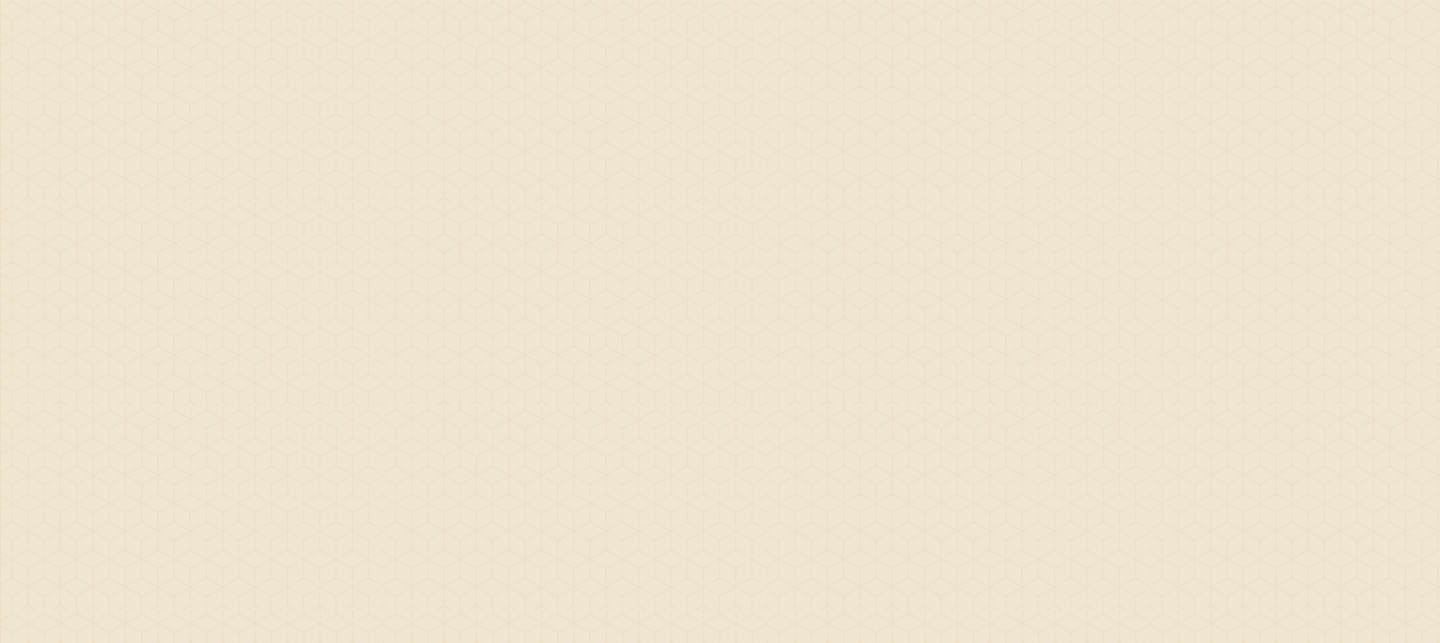
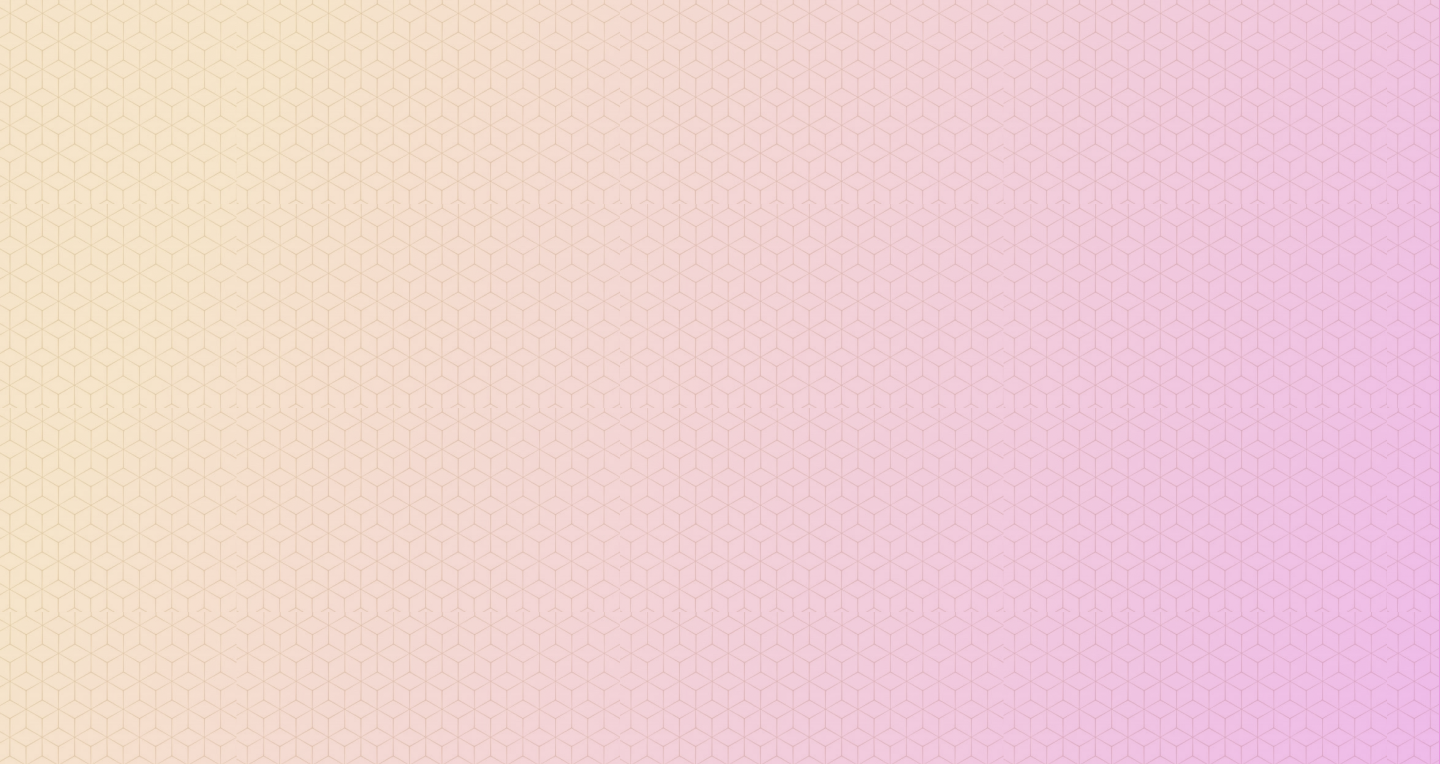
further style updates

diff --git a/src/components/profile/ProfileCard.js b/src/components/profile/ProfileCard.js
@@ -9,6 +9,7 @@ import EditProfile from "./EditProfile";
 import LoadingBC from "../infoboxes/LoadingBC";
 import { PrivateBid } from "../lease/BuyerForms";
 import { ProfileCollection } from "./ProfileCollection";
+import './profile.css'
 
 export function ProfileCard({ profileData }) {
 
@@ -51,10 +52,11 @@ export function ProfileCard({ profileData }) {
   }
 
   return (
-    <Container className="p-3 p-lg-0">
+    <Container fluid style={{backgroundColor: "white"}} className="g-0 m-0 pt-lg-3" >
+    <Container className="p-0">
       {profileData ?
 
-        <Container id="profileCard" fluid="true" className="frontCards p-4 mt-5">
+        <Container id="profileCard" fluid="true" className="frontCards p-4" style={{minHeight: "90vh"}}>
           <Tabs defaultActiveKey='profile' id='profile-collection-tabs'>
             <Tab eventKey='profile' title='Profile'>
               <Row className="d-flex justify-content-center">
@@ -210,5 +212,6 @@ export function ProfileCard({ profileData }) {
         :
         <LoadingBC />
       }</Container >
+      </Container>
   )
 }

diff --git a/src/components/NavBar.js b/src/components/NavBar.js
@@ -26,7 +26,7 @@ function NavHead() {
   }
   return (
     <Container id="navbar" fluid>
-      <Navbar collapseOnSelect={true} expand="md" bg="white" className="p-3">
+      <Navbar collapseOnSelect={true} expand="md" style={{background: "rgba(255, 255, 255, 0.6)"}} className="p-3">
         <Container>
         <Link to="/"><img src="/find-alt.png" alt="Find Logo" fluid style={{maxHeight: "34px"}} /></Link>
         <Navbar.Toggle aria-controls="responsive-navbar-nav" />

diff --git a/src/index.css b/src/index.css
@@ -302,12 +302,13 @@ margin-right:auto;
 body:before {
   content: " ";
   width: 100%;
-  height: 70%;
+  height: 75%;
   position: absolute;
   z-index: -1;
   top: 0;
   left: 0;
   background-image: url(./findbg.png);
+  background-size: cover;
   /* background: linear-gradient(180deg, rgba(255, 255, 255, 0.132) 0%, rgba(107, 211, 177, 0.498) 42.22%, rgba(255, 255, 255, 0.6) 77.06%); */
 }
 .disclaimer {

diff --git a/src/components/profile/profile.css b/src/components/profile/profile.css
@@ -1,0 +1,13 @@
+#profileCard .nav.nav-tabs {
+    border: none;
+}
+#profileCard .nav-link {
+    border: none;
+    padding-bottom: 10px;
+    color: black;
+}
+#profileCard .nav-link.active {
+    border-bottom: 2px solid black;
+    font-weight: bold;
+    padding-bottom: 10px;
+}

diff --git a/src/pages/NameSearch.js b/src/pages/NameSearch.js
@@ -59,7 +59,7 @@ function NameSearch() {
     }
     // --- SEARCH RESULT SCREEN ---
     return (
-      <Container id="nameFoundProfile">
+      <Container id="nameFoundProfile" className="g-0 m-0 p-0" fluid>
         <ProfileCard profileData={nameStatus} />
       </Container>
 
